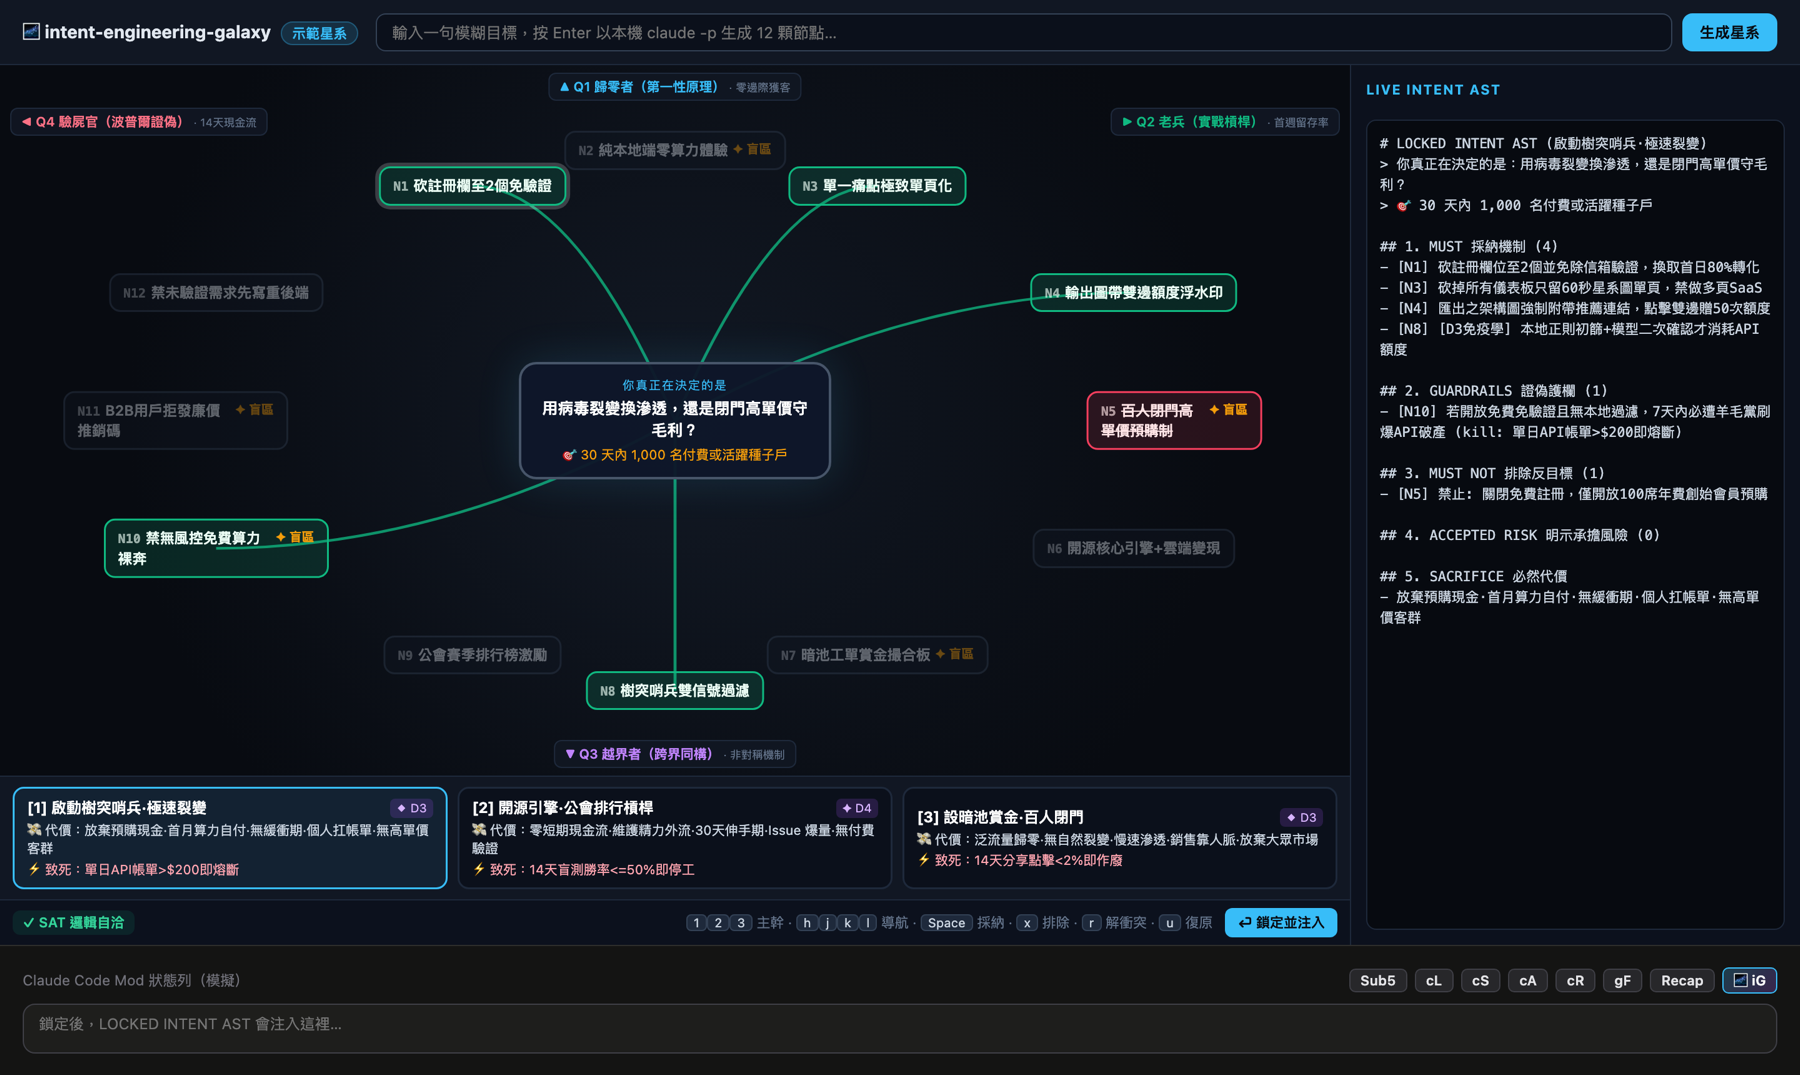
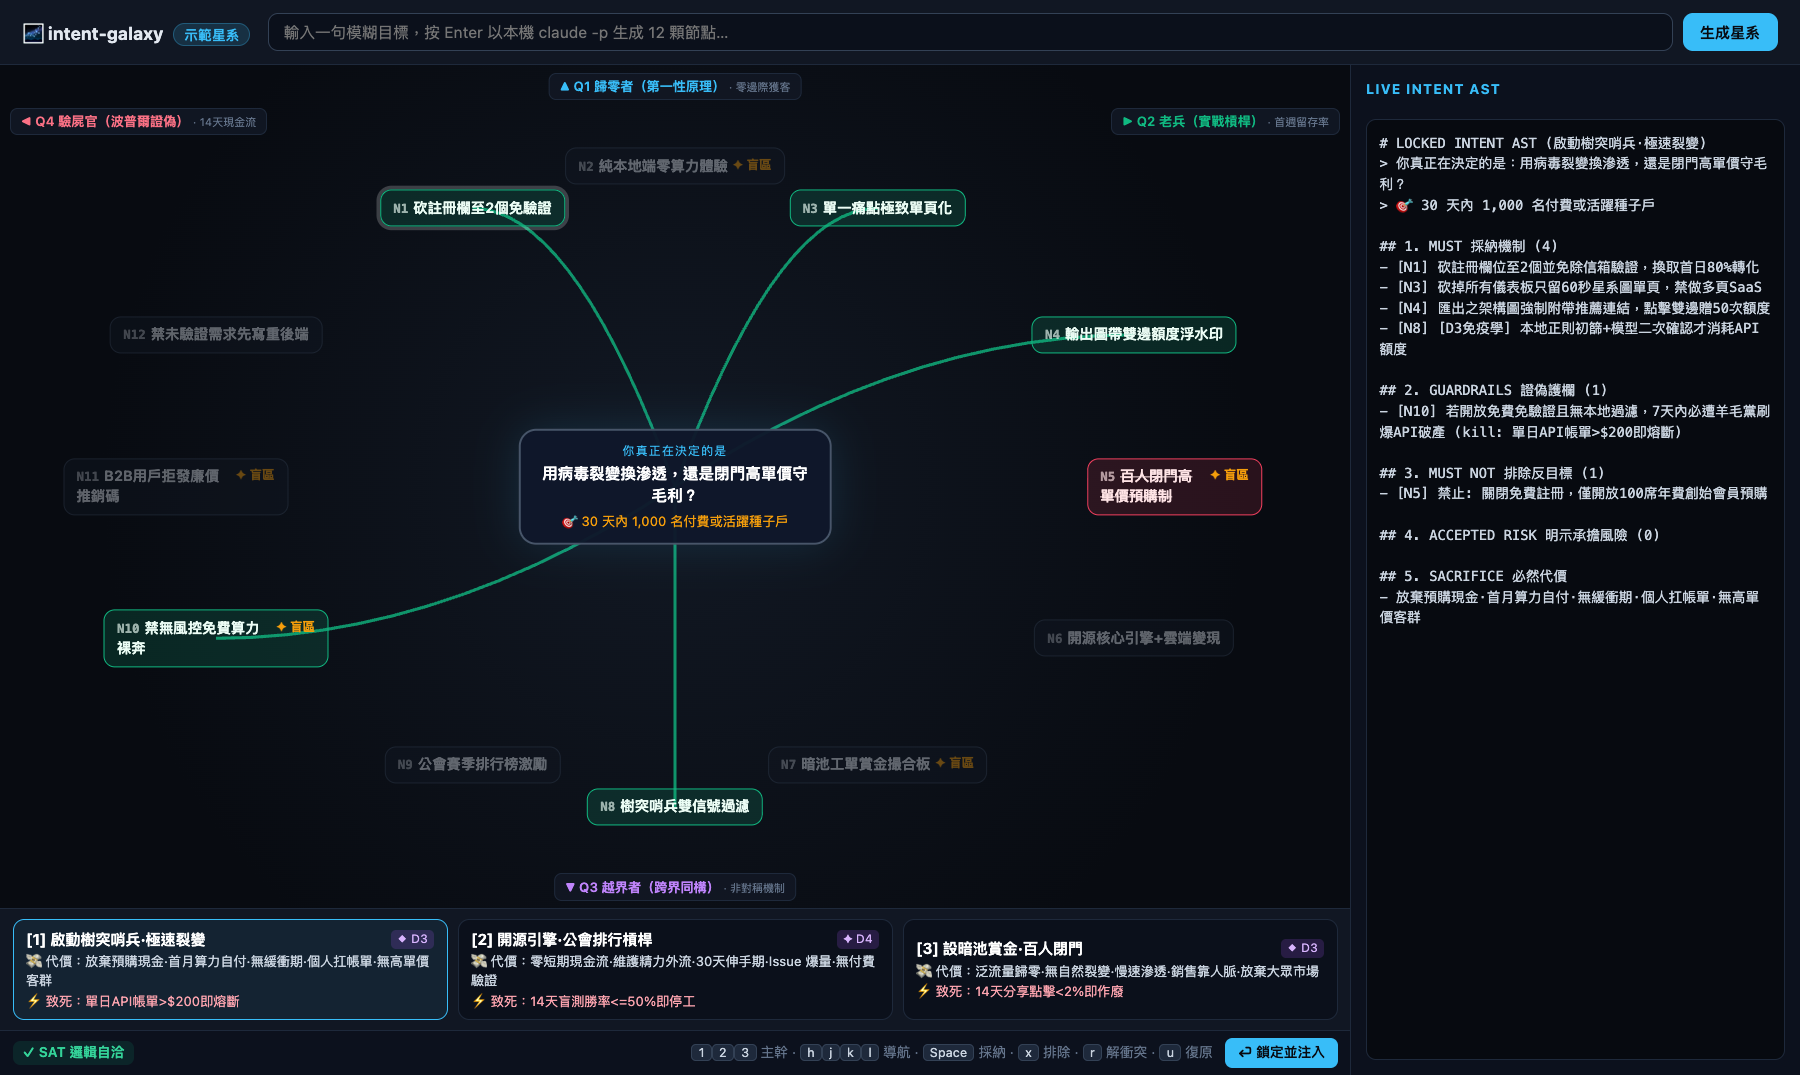
Drop the mock Claude Code Mod status bar from the local galaxy page and refresh README screenshots

diff --git a/apps/web/index.html b/apps/web/index.html
@@ -6,7 +6,7 @@
 <title>Intent Galaxy</title>
 <style>
   * { box-sizing: border-box; margin: 0; padding: 0; font-family: -apple-system, BlinkMacSystemFont, "Segoe UI", Roboto, "PingFang TC", sans-serif; }
-  body { background: #080b11; color: #e2e8f0; height: 100vh; display: grid; grid-template-rows: 52px 1fr 104px; overflow: hidden; }
+  body { background: #080b11; color: #e2e8f0; height: 100vh; display: grid; grid-template-rows: 52px 1fr; overflow: hidden; }
   header { background: #111723; border-bottom: 1px solid #1e293b; display: flex; align-items: center; gap: 14px; padding: 0 18px; }
   .brand { font-weight: 700; font-size: 14px; white-space: nowrap; }
   .badge { font-size: 11px; padding: 2px 8px; border-radius: 99px; background: rgba(56,189,248,0.15); color: #38bdf8; border: 1px solid rgba(56,189,248,0.3); margin-left: 8px; }
@@ -16,12 +16,6 @@
   header button { padding: 6px 14px; border-radius: 8px; border: none; background: #38bdf8; color: #080b11; font-weight: 700; font-size: 12px; cursor: pointer; }
   header button:disabled { opacity: .5; cursor: wait; }
   intent-galaxy-overlay { min-height: 0; }
-  /* 模擬 Claude Code Mod（deckhand）狀態列與輸入框：示範 Enter 後的注入結果 */
-  #claude-mod-dock { background: #141413; border-top: 1px solid #2e2e2c; padding: 10px 18px; display: flex; flex-direction: column; gap: 8px; justify-content: center; }
-  .cm-status-row { display: flex; align-items: center; gap: 6px; font-size: 11.5px; color: #a1a1aa; }
-  .cm-pill { background: #27272a; color: #e4e4e7; border: 1px solid #3f3f46; padding: 2px 8px; border-radius: 5px; font-size: 11px; font-weight: 600; }
-  .cm-pill.ig-btn { background: linear-gradient(135deg, rgba(56,189,248,0.25), rgba(168,85,247,0.25)); border-color: #38bdf8; color: #fff; cursor: pointer; }
-  #cm-prompt-input { background: #1e1e1c; border: 1px solid #3f3f46; border-radius: 10px; padding: 7px 12px; color: #f4f4f5; font-size: 12px; height: 40px; resize: none; outline: none; }
 </style>
 </head>
 <body>
@@ -33,15 +27,6 @@
   </form>
 </header>
 <intent-galaxy-overlay id="galaxy"></intent-galaxy-overlay>
-<section id="claude-mod-dock">
-  <div class="cm-status-row">
-    <span style="color:#71717a">Claude Code Mod 狀態列（模擬）</span>
-    <span style="margin-left:auto"></span>
-    <span class="cm-pill">Sub5</span><span class="cm-pill">cL</span><span class="cm-pill">cS</span><span class="cm-pill">cA</span><span class="cm-pill">cR</span><span class="cm-pill">gF</span><span class="cm-pill">Recap</span>
-    <button class="cm-pill ig-btn" id="ig-pill" title="聚焦星系（Cmd/Ctrl+Shift+G）">🌌 iG</button>
-  </div>
-  <textarea id="cm-prompt-input" placeholder="鎖定後，LOCKED INTENT AST 會注入這裡…"></textarea>
-</section>
 <script type="module">
 import "./galaxy-overlay.js";
 import { SAMPLE_GALAXY } from "./sample-galaxy.js";
@@ -84,19 +69,19 @@ document.getElementById("goal-form").addEventListener("submit", async (e) => {
 });
 
 galaxy.addEventListener("intent-lock", async (e) => {
-  const input = document.getElementById("cm-prompt-input");
-  let ast = e.detail.ast;
+  let ast = e.detail.ast, lockNote = "";
   if (served) {
     // 示範星系沒有登記在伺服器（galaxyId 0），附上 analysis 讓伺服器重算並簽署鎖檔。
     const body = { ...e.detail, analysis: e.detail.galaxyId ? undefined : galaxy.analysis, goal: galaxy.goal };
     const res = await fetch("/api/lock", { method: "POST", headers: { "Content-Type": "application/json" }, body: JSON.stringify(body) }).then((r) => r.json()).catch((err) => ({ ok: false, error: err.message }));
     if (!res.ok) { galaxy.showMessage(`鎖檔未寫入：${res.error}`); return; }
     ast = res.ast;
-    galaxy.showMessage(`🔒 已寫入 .intent.lock.json · ${res.specHash.slice(0, 12)} · ${res.auditDueAt.slice(0, 10)} 驗屍${res.hookInstalled ? "" : "（尚未 init-hook）"}`);
+    lockNote = `🔒 已寫入 .intent.lock.json · ${res.specHash.slice(0, 12)} · ${res.auditDueAt.slice(0, 10)} 驗屍${res.hookInstalled ? "" : "（尚未 init-hook）"}`;
   }
-  input.value = ast; input.style.borderColor = "#38bdf8";
+  // 本機獨立頁面沒有輸入框可注入，改把 LOCKED INTENT AST 複製到剪貼簿。
+  const copied = await navigator.clipboard?.writeText(ast).then(() => true, () => false);
+  galaxy.showMessage([lockNote, copied ? "📋 AST 已複製到剪貼簿" : "AST 未能複製到剪貼簿"].filter(Boolean).join(" · "));
 });
-document.getElementById("ig-pill").addEventListener("click", () => galaxy.focus());
 window.addEventListener("keydown", (e) => {
   if ((e.metaKey || e.ctrlKey) && e.shiftKey && e.code === "KeyG") { e.preventDefault(); galaxy.focus(); }
 });
